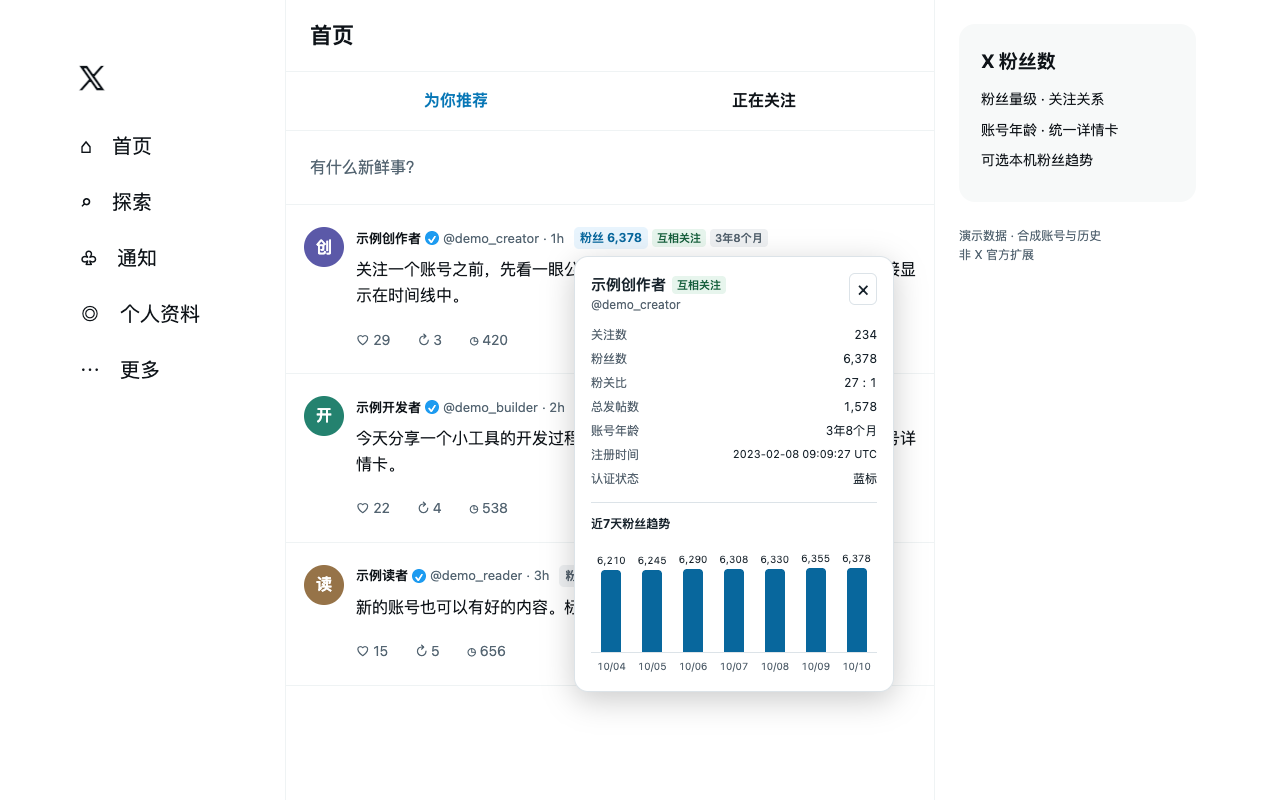
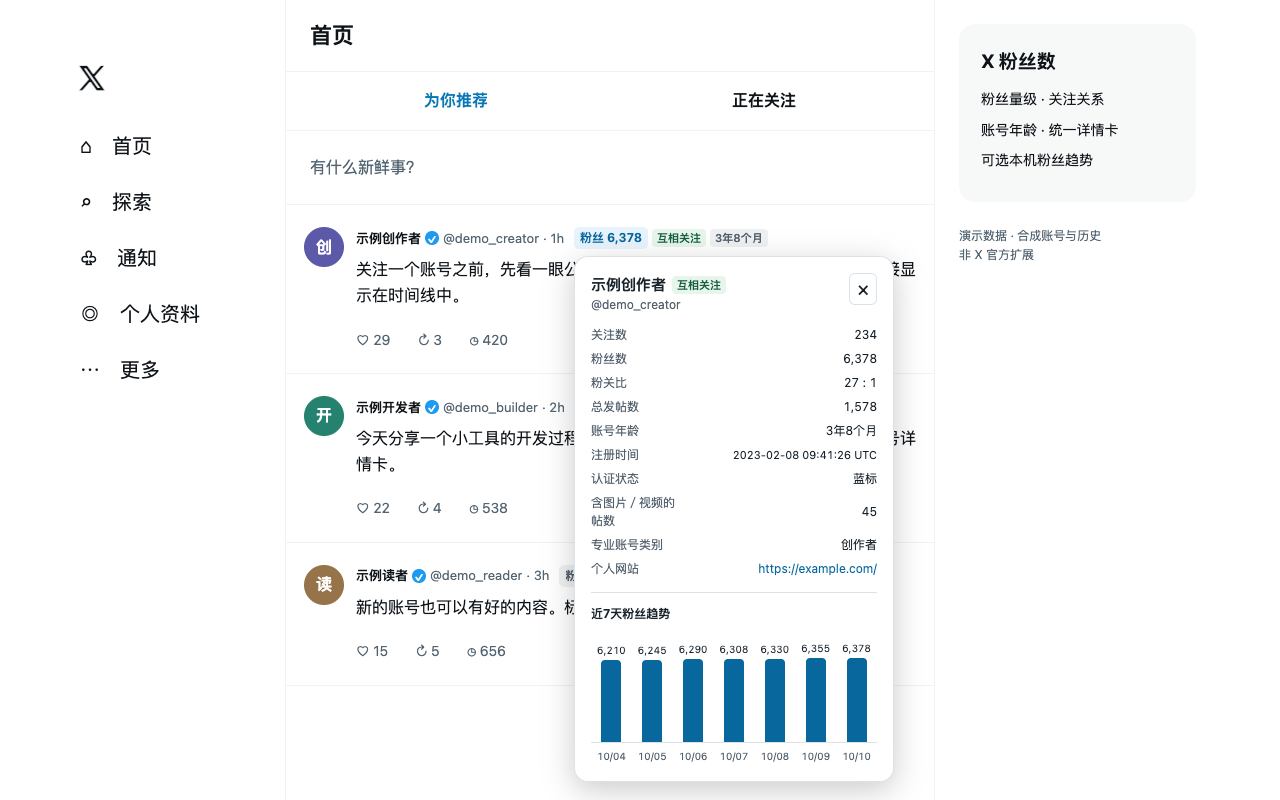
Clarify profile fields, enable defaults and unify extension package

Changed region(s): [[0.4375, 0.625, 0.6875, 1.0], [0.5625, 0.5625, 0.6875, 0.5938]]

diff --git a/extension/privacy.html b/extension/privacy.html
@@ -1,8 +1,8 @@
 <!doctype html>
 <html lang="zh-CN"><head><meta charset="utf-8"><meta name="viewport" content="width=device-width,initial-scale=1"><title>隐私政策 · X 粉丝数</title><link rel="stylesheet" href="popup.css"></head>
 <body class="privacy-page"><h1>X 粉丝数隐私政策</h1><p>更新日期：2026-10-10 · 发布者：vikyhuhu。本扩展与 X / Twitter 无官方关联。</p>
-<h2>用途与数据</h2><p>仅在 X / Twitter 的 HTTPS 页面显示账号信息与粉丝趋势。读取页面自身已加载的公开用户资料：用户 ID、昵称、账号名、粉丝数、关注数、总发帖数、媒体帖数、注册时间、认证、账号类别及个人网站；读取当前登录账号的关注关系，并从账号切换按钮读取账号名以清空关系缓存。以上详情只保留在页面内存，刷新后重建。</p>
-<h2>可选本机记录</h2><p>粉丝趋势记录默认关闭。你明确开启后，扩展在 chrome.storage.local 保存已加载账号的用户 ID、观察时间与粉丝数。记录保留30天，最多1,000个账号，存储预算8 MiB；超限时移除较早记录。开关和显示偏好持续保存在本机。升级时移除旧版保存的资料和帖子样本，保留尚未过期的粉丝快照，记录开关默认关闭。</p>
+<h2>用途与数据</h2><p>仅在 X / Twitter 的 HTTPS 页面显示账号信息与粉丝趋势。读取页面自身已加载的公开用户资料：用户 ID、昵称、账号名、粉丝数、关注数、总发帖数、含图片／视频的帖数、注册时间、认证、专业账号类别及个人网站；读取当前登录账号的关注关系，并从账号切换按钮读取账号名以清空关系缓存。以上详情只保留在页面内存，刷新后重建。</p>
+<h2>可选本机记录</h2><p>新安装默认开启粉丝趋势记录及全部详情显示项，可在工具栏随时关闭；升级保留已经保存的设置。记录开启时，扩展在 chrome.storage.local 保存已加载账号的用户 ID、观察时间与粉丝数。记录保留30天，最多1,000个账号，存储预算8 MiB；超限时移除较早记录。开关和显示偏好持续保存在本机。升级时移除旧版保存的资料和帖子样本，保留尚未过期的粉丝快照。</p>
 <h2>网络与分享</h2><p>扩展不向开发者或第三方上传、出售、共享数据；无分析、广告、遥测或远程执行代码。只解析允许的用户／时间线读取响应（GET 或 POST），不主动查询账号，不读取请求头、Cookie、令牌、密码、私信、请求正文或完整浏览 URL 历史；不提取或保存帖子正文。打开个人网站、GitHub 或隐私政策链接是你的主动操作，目标网站按其自身政策处理请求。X 本身的数据处理受 X 的政策约束。</p>
 <h2>你的控制</h2><p>工具栏设置可开启或关闭记录、选择详情字段，或确认清除全部趋势记录。关闭记录后停止新记录及趋势展示，但已有快照保留至到期或清除（保留期在处理本地记录时执行清理）；再次开启可恢复未过期的快照。卸载扩展会移除扩展本机存储。禁用扩展可停止运行。</p>
 <h2>有限使用与联系</h2><p>数据仅用于本政策所述的账号信息显示与本机粉丝趋势功能，遵守 Chrome Web Store 用户数据政策及 Limited Use 要求，不用于广告、转售、信用或贷款判断；开发者无法访问本机数据。数据不是账号真实性或质量的证明。</p><p>联系与支持：<a href="https://github.com/vikyhuhu/x-follower-count/issues" target="_blank" rel="noopener noreferrer">GitHub Issues</a>。请勿提交凭证或私人资料。<a href="https://github.com/vikyhuhu/x-follower-count/blob/main/PRIVACY.md" target="_blank" rel="noopener noreferrer">公开隐私政策</a>。</p></body></html>

diff --git a/extension/popup.html b/extension/popup.html
@@ -1,5 +1,5 @@
 <!doctype html>
 <html lang="zh-CN"><head><meta charset="utf-8"><meta name="viewport" content="width=device-width,initial-scale=1"><link rel="stylesheet" href="popup.css"><title>X 粉丝数</title></head>
 <body><h1>X 粉丝数</h1><p>查看 X 账号详情；不上传数据。</p>
-<fieldset disabled><legend>本机设置</legend><label><input type="checkbox" name="recording">开启本机粉丝趋势记录</label><p class="note">开启后保存已加载账号的用户 ID、观察时间及粉丝数，保留30天。默认关闭；关闭后停止记录及趋势展示，已有记录可手动清除。</p><p>详情卡可选内容</p><label><input type="checkbox" name="verification">认证状态</label><label><input type="checkbox" name="media">媒体帖数</label><label><input type="checkbox" name="category">账号自填类别</label><label><input type="checkbox" name="website">个人网站</label></fieldset>
+<fieldset disabled><legend>本机设置</legend><label><input type="checkbox" name="recording">开启本机粉丝趋势记录</label><p class="note">开启后保存已加载账号的用户 ID、观察时间及粉丝数，保留30天。新安装默认开启，可随时关闭；升级保留已有设置。关闭后停止记录及趋势展示，已有记录可手动清除。</p><p>详情卡可选内容</p><label><input type="checkbox" name="verification">认证状态</label><label><input type="checkbox" name="media">含图片／视频的帖数</label><label><input type="checkbox" name="category">专业账号类别</label><label><input type="checkbox" name="website">个人网站</label></fieldset>
 <p id="summary">正在读取本地记录…</p><button id="clear" type="button">清除全部趋势记录</button><p id="confirm" hidden>清除本机保存的全部趋势记录？<button id="confirm-clear" type="button">确认清除</button><button id="cancel" type="button">取消</button></p><p id="status" role="status"></p><p class="note">保留最近30天；最多1,000个账号，存储预算8 MiB；超限淘汰较早记录。不主动请求账号数据，不保存帖子正文或关注关系。<a href="privacy.html" target="_blank" rel="noopener">隐私政策</a></p><script src="popup.js"></script></body></html>

diff --git a/extension/card.js b/extension/card.js
@@ -112,8 +112,8 @@
     pair(list, "注册时间", age ? `${new Date(user.createdAt).toISOString().slice(0, 19).replace("T", " ")} UTC` : "—").className = "xfc-date";
     const options = result.settings ?? history.defaults;
     if (options.verification && user.verification) pair(list, "认证状态", { blue: "蓝标", business: "企业认证", government: "政府／组织认证", verified: "已认证", none: "未认证" }[user.verification]);
-    if (options.media && user.mediaCount !== undefined) pair(list, "媒体帖数", number(user.mediaCount));
-    if (options.category && user.category) pair(list, "账号自填类别", user.category);
+    if (options.media && user.mediaCount !== undefined) pair(list, "含图片／视频的帖数", number(user.mediaCount));
+    if (options.category && user.category) pair(list, "专业账号类别", user.category);
     if (options.website && user.website) {
       const value = pair(list, "个人网站", "");
       const link = element("a", "", user.website); link.href = user.website; link.target = "_blank"; link.rel = "noopener noreferrer"; value.append(link);

diff --git a/extension/content.css b/extension/content.css
@@ -125,7 +125,7 @@
 .xfc-title-row .xfc-relation { flex: 0 0 auto; }
 .xfc-card-header { margin-bottom: 12px; }
 .xfc-facts { display: grid; grid-template-columns: 84px minmax(0,1fr); gap: 6px 8px; margin: 0; }
-.xfc-facts dt { color: var(--xfc-muted); } .xfc-facts dd { margin: 0; text-align: right; overflow-wrap: anywhere; font-variant-numeric: tabular-nums; } .xfc-date { font-size: 11px; }
+.xfc-facts dt { color: var(--xfc-muted); } .xfc-facts dd { align-self: center; margin: 0; text-align: right; overflow-wrap: anywhere; font-variant-numeric: tabular-nums; } .xfc-date { font-size: 11px; }
 .xfc-chart-section { margin-top: 14px; padding-top: 12px; border-top: 1px solid var(--xfc-border); }
 .xfc-chart-section h3 { margin: 0 0 8px; font-size: 12px; }
 .xfc-bars { display: grid; grid-template-columns: repeat(7, minmax(0,1fr)); width: 100%; min-height: 134px; }

diff --git a/extension/history.js b/extension/history.js
@@ -1,7 +1,7 @@
 (() => {
   "use strict";
   const DAY = 86400000, KEEP_DAYS = 30, MAX_USERS = 1000, MAX_BYTES = 8 * 1024 * 1024;
-  const defaults = Object.freeze({ recording: false, verification: true, media: false, category: false, website: false });
+  const defaults = Object.freeze({ recording: true, verification: true, media: true, category: true, website: true });
   const validId = value => typeof value === "string" && /^\d{1,40}$/.test(value);
   const validCount = value => Number.isSafeInteger(value) && value >= 0;
   function dayKey(time) { return new Date(time + 8 * 3600000).toISOString().slice(0, 10); }

diff --git a/tests/privacy_browser_test.py b/tests/privacy_browser_test.py
@@ -1,4 +1,4 @@
-"""Fresh install, explicit consent, storage minimization and real extension reload."""
+"""Fresh defaults, saved choices, storage minimization and real extension reload."""
 import json
 import os
 import tempfile
@@ -22,16 +22,16 @@ with sync_playwright() as p, tempfile.TemporaryDirectory(prefix="xfc-privacy-") 
     badge=page.locator("#tweet > [data-testid='User-Name'] .xfc-badge")
     expect(badge).to_have_text("粉丝 100")
     worker=context.service_workers[0] if context.service_workers else context.wait_for_event("serviceworker")
-    assert not worker.evaluate("()=>chrome.storage.local.get('xfc-history-v1')")
     extension_id=worker.url.split('/')[2]
     popup=context.new_page();popup.goto(f"chrome-extension://{extension_id}/popup.html")
-    expect(popup.get_by_label("开启本机粉丝趋势记录",exact=True)).not_to_be_checked()
-    popup.get_by_label("开启本机粉丝趋势记录",exact=True).check()
-    expect(popup.get_by_role("status")).to_have_text("已保存")
-    page.get_by_role("button",name="载入时间线").click()
+    for label in ["开启本机粉丝趋势记录","认证状态","含图片／视频的帖数","专业账号类别","个人网站"]:
+        expect(popup.get_by_label(label,exact=True)).to_be_checked()
+    expect(popup.locator("fieldset .note")).to_contain_text("新安装默认开启")
     badge.hover();expect(page.locator('.xfc-bar-value')).to_have_text('100')
     saved=worker.evaluate("()=>chrome.storage.local.get('xfc-history-v1')")['xfc-history-v1']
     assert sorted(saved['users']['1'])==['days','lastSeen','userId']
+    popup.get_by_label("个人网站",exact=True).uncheck()
+    expect(popup.get_by_role("status")).to_have_text("已保存")
     popup.get_by_label("开启本机粉丝趋势记录",exact=True).uncheck()
     expect(popup.get_by_role("status")).to_have_text("已保存")
     payload['relationship_counts']['followers']=101
@@ -44,6 +44,7 @@ with sync_playwright() as p, tempfile.TemporaryDirectory(prefix="xfc-privacy-") 
     expect(popup.locator('#summary')).to_contain_text('已记录 0 个账号')
     privacy=context.new_page();privacy.goto(f"chrome-extension://{extension_id}/privacy.html")
     expect(privacy.get_by_role('heading',name='X 粉丝数隐私政策',exact=True)).to_be_visible()
+    expect(privacy.locator("body")).to_contain_text("新安装默认开启")
     # Reload from Chrome's real extension manager while the old X page stays alive.
     manager=context.new_page();manager.goto('chrome://extensions')
     toggle=manager.locator('#devMode');toggle.click()
@@ -56,6 +57,10 @@ with sync_playwright() as p, tempfile.TemporaryDirectory(prefix="xfc-privacy-") 
     assert not errors,errors
     page.reload();page.get_by_role('button',name='载入时间线').click()
     expect(page.locator("#tweet .xfc-badge")).to_have_text('粉丝 101')
+    popup=context.new_page();popup.goto(f"chrome-extension://{extension_id}/popup.html")
+    expect(popup.get_by_label("开启本机粉丝趋势记录",exact=True)).not_to_be_checked()
+    expect(popup.get_by_label("个人网站",exact=True)).not_to_be_checked()
+    page.locator("#tweet .xfc-badge").hover();expect(page.locator('.xfc-bar')).to_have_count(0)
     assert not errors,errors
-    print(json.dumps({'result':'passed','checks':['fresh install does not persist account data','explicit consent through popup','minimal storage schema','disable and clear','offline privacy','real extension reload safely stops old listeners','new page resumes'],'page_errors':errors},ensure_ascii=False))
+    print(json.dumps({'result':'passed','checks':['fresh install defaults all five options on and records first observation','popup discloses recording','disabled choices persist through real extension reload','minimal storage schema','disable and clear','offline privacy','real extension reload safely stops old listeners','new page resumes'],'page_errors':errors},ensure_ascii=False))
     context.close()

diff --git a/scripts/package.py b/scripts/package.py
@@ -1,4 +1,4 @@
-"""Build local-install and Chrome Web Store archives from an explicit allowlist."""
+"""Build one archive for local installation and Chrome Web Store upload from an explicit allowlist."""
 from pathlib import Path
 from zipfile import ZipFile, ZIP_DEFLATED, ZipInfo
 import json
@@ -13,18 +13,13 @@ def put(archive, name, content):
     info.compress_type = ZIP_DEFLATED
     info.external_attr = 0o644 << 16
     archive.writestr(info, content)
-for store in (False, True):
-    output = ROOT / "dist" / f"x-follower-count-{version}{'-webstore' if store else ''}.zip"
-    prefix = "" if store else "x-follower-count/"
-    with ZipFile(output, "w") as archive:
-        for name in FILES:
-            put(archive, prefix + name, (ROOT / "extension" / name).read_bytes())
-        put(archive, prefix + "LICENSE", (ROOT / "LICENSE").read_bytes())
-        if not store:
-            guide = (ROOT / "README.md").read_text().replace('src="extension/icons/', 'src="icons/')
-            put(archive, prefix + "安装说明.md", guide.encode())
-            put(archive, prefix + "PRIVACY.md", (ROOT / "PRIVACY.md").read_bytes())
-    with ZipFile(output) as archive:
-        assert archive.testzip() is None
-        assert prefix + "manifest.json" in archive.namelist()
-    print(output)
+output = ROOT / "dist" / f"x-follower-count-{version}.zip"
+with ZipFile(output, "w") as archive:
+    for name in FILES:
+        put(archive, name, (ROOT / "extension" / name).read_bytes())
+    put(archive, "LICENSE", (ROOT / "LICENSE").read_bytes())
+with ZipFile(output) as archive:
+    assert archive.testzip() is None
+    assert set(archive.namelist()) == {*FILES, "LICENSE"}
+    assert "manifest.json" in archive.namelist()
+print(output)

diff --git a/tests/card_browser_test.py b/tests/card_browser_test.py
@@ -75,7 +75,7 @@ with sync_playwright() as p, tempfile.TemporaryDirectory(prefix="xfc-card-") as 
     expect(card.locator(".xfc-facts").get_by_text("174,000", exact=True)).to_be_visible()
     expect(card.get_by_text("544 : 1", exact=True)).to_be_visible()
     expect(card.get_by_text("1,578", exact=True)).to_be_visible()
-    expect(card.get_by_text("账号自填类别", exact=True)).to_be_visible()
+    expect(card.get_by_text("专业账号类别", exact=True)).to_be_visible()
     expect(card.locator(".xfc-chart-section")).to_have_count(1)
     expect(card.get_by_role("heading", name="近7天已观察发帖")).to_have_count(0)
     expect(card.get_by_role("button", name="清除此账号记录")).to_have_count(0)
@@ -162,8 +162,8 @@ with sync_playwright() as p, tempfile.TemporaryDirectory(prefix="xfc-card-") as 
     popup.on("requestfailed", lambda req: failures.append(req.url))
     popup.goto(f"chrome-extension://{extension_id}/popup.html")
     expect(popup.locator("#summary")).to_contain_text("已记录")
-    expect(popup.get_by_label("媒体帖数", exact=True)).to_be_checked()
-    popup.get_by_label("媒体帖数", exact=True).uncheck()
+    expect(popup.get_by_label("含图片／视频的帖数", exact=True)).to_be_checked()
+    popup.get_by_label("含图片／视频的帖数", exact=True).uncheck()
     expect(popup.get_by_role("status")).to_have_text("已保存")
     popup.get_by_role("button", name="清除全部趋势记录", exact=True).click()
     popup.get_by_role("button", name="确认清除", exact=True).click()

diff --git a/scripts/store_assets.py b/scripts/store_assets.py
@@ -19,7 +19,7 @@ day=lambda date:(date+timedelta(hours=8)).strftime('%Y-%m-%d')
 counts=[6378,17000,423]
 handles=['demo_creator','demo_builder','demo_reader']
 names=['示例创作者','示例开发者','示例读者']
-users=[{'rest_id':str(i+1),'core':{'screen_name':handle,'name':names[i],'created_at':(now-timedelta(days=[1340,365,40][i])).isoformat()},'relationship_counts':{'followers':counts[i],'following':[234,180,320][i]},'relationship_perspectives':{'following':i==0,'followed_by':i<2},'tweet_counts':{'tweets':[1578,256,35][i]},'is_blue_verified':True} for i,handle in enumerate(handles)]
+users=[{'rest_id':str(i+1),'core':{'screen_name':handle,'name':names[i],'created_at':(now-timedelta(days=[1340,365,40][i])).isoformat()},'relationship_counts':{'followers':counts[i],'following':[234,180,320][i]},'relationship_perspectives':{'following':i==0,'followed_by':i<2},'tweet_counts':{'tweets':[1578,256,35][i],'media_tweets':[45,20,3][i]},'is_blue_verified':True,'professional':{'category':[{'name':'创作者'}]},'website':{'url':'https://example.com'}} for i,handle in enumerate(handles)]
 svg=base64.b64encode((ROOT/'assets/icon.svg').read_bytes()).decode()
 articles=''
 texts=['关注一个账号之前，先看一眼公开资料。粉丝数、关注关系和账号年龄，直接显示在时间线中。','今天分享一个小工具的开发过程。鼠标停在任意标签上，就能查看同一张账号详情卡。','新的账号也可以有好的内容。标签描述数据，内容是否值得关注，由你判断。']

diff --git a/docs/chrome-web-store.md b/docs/chrome-web-store.md
@@ -1,10 +1,10 @@
-# Chrome Web Store 提交准备 · 1.2.1
+# Chrome Web Store 提交准备 · 1.2.2
 
 准备日期：2026-10-10。此文件提供可填写的材料，尚未提交商店审核，不保证审核结果。提交前需实际登录 X 确认当前页面兼容性，并填写发布者真实账户资料。
 
 ## 安装包与图片
 
-运行 `pnpm package`，上传 `dist/x-follower-count-1.2.1-webstore.zip`；包中 `manifest.json` 位于根目录。普通安装 ZIP 用于本地安装，勿混用。
+运行 `pnpm package`，仅生成 `dist/x-follower-count-1.2.2.zip`，包中 `manifest.json` 位于根目录。商店后台直接上传此 ZIP；本地使用同一个 ZIP，解压后加载包含 `manifest.json` 的文件夹。
 
 | 用途 | 文件 | 尺寸 |
 | --- | --- | --- |
@@ -29,7 +29,7 @@
 >
 > 在账号和发布时间后显示粉丝数量、关注关系及账号年龄。粉丝数按量级分色；注册未满90天显示「新号」。悬停或点击任意标签，查看精确粉丝数、关注数、取整粉关比、总发帖数及注册时间。总发帖数不等于全历史原创数，标签不评价账号质量。
 >
-> 近七天粉丝柱状图为可选功能：在工具栏设置明确开启后，仅在本机保存已加载账号的用户 ID、观察时间与粉丝数。记录保留30天、最多1,000个账号；不会回溯未观察到的历史。可以关闭记录及趋势展示，或清除全部快照。账号详情和关注关系仅在当前页面内存中处理。
+> 新安装默认开启全部详情显示项和近七天粉丝柱状图：仅在本机保存已加载账号的用户 ID、观察时间与粉丝数。记录保留30天、最多1,000个账号；不会回溯未观察到的历史。可以在工具栏分别关闭详情项、关闭记录及趋势展示，或清除全部快照。升级保留已经保存的设置。认证状态、含图片／视频的帖数、专业账号类别及个人网站仅在页面提供数据时显示。账号详情和关注关系仅在当前页面内存中处理。
 >
 > 扩展读取 X 页面自身允许的用户／时间线读取响应（GET 或 POST），不额外查询账号，不提取或保存帖子正文，不解析私信及认证接口，不读取请求头、Cookie、密码或令牌，不上传数据，无广告或分析。仅在 X / Twitter 的 HTTPS 页面运行。
 >
@@ -45,7 +45,7 @@
 
 **单一用途**：帮助用户在 X 页面查看已加载的公开账号信息及可选的本机粉丝数量观察趋势。
 
-**storage 理由**：保存显示偏好；用户明确开启记录后保存用户 ID、观察时间及粉丝数，供近七天本机柱状图使用。没有云同步。
+**storage 理由**：保存显示偏好；新安装默认开启记录，可随时关闭；记录开启时保存用户 ID、观察时间及粉丝数，供近七天本机柱状图使用。没有云同步。
 
 **站点访问理由**：静态 content_scripts 仅匹配 HTTPS X / Twitter 四个域名，在页面开始加载时读取已发生的允许的读取响应（GET 或 POST）并插入账号标签。没有 `<all_urls>`、`tabs`、`cookies`、`webRequest`、`unlimitedStorage` 或额外 host_permissions。
 
@@ -57,7 +57,7 @@
 | --- | --- |
 | 个人身份信息 | 公开昵称、账号名、用户 ID；账号切换按钮的当前账号名只用于页面缓存失效 |
 | 网站内容 | 已加载的公开账号字段及当前账号对应的关注关系，页面内存处理 |
-| 网络浏览记录／活动 | 仅 X 页面加载的账号观察历史；明确开启后本机保存 ID、观察时间与粉丝数，不保存完整 URL 历史或其他网站活动 |
+| 网络浏览记录／活动 | 仅 X 页面加载的账号观察历史；记录开启时本机保存 ID、观察时间与粉丝数，不保存完整 URL 历史或其他网站活动 |
 
 不处理健康、金融／支付、身份验证凭证、私信或按键／鼠标行为追踪。产品为浮窗所需的正常指针、键盘事件不是行为分析。实际后台表单名称可能变化，按上述范围一致填写。
 
@@ -67,11 +67,11 @@
 
 1. 安装后登录 X，打开首页或用户列表并刷新。扩展没有单独登录流程，不提供测试账号或凭证。
 2. 检查账号名与时间后的标签，任意标签打开相同详情卡；姓名附近为关注关系标签，粉关比取整。X 原生用户名悬浮和插件标签悬浮各自独立。
-3. 新安装时趋势记录默认关闭，基础标签和详情仍可用。在工具栏开启本机记录后刷新 X，今日柱子直接显示观察到的完整粉丝数。
+3. 新安装时全部设置默认开启，今日柱子直接显示观察到的完整粉丝数；缺失类别等字段不显示。升级已有设置时保留明确关闭的选项。
 4. 关闭记录后停止新记录及趋势展示；清除全部记录有确认步骤，显示偏好保留。工具栏可访问离线隐私政策。
 5. 商店审核时可能只有一天记录，真实七天趋势需逐日观察；截图中的七天历史为合成数据。
 
-开发回归：27项 Node 测试通过；三套浏览器测试通过，商店 ZIP 解压后的文件也已实际加载验证，控制台无错误。1.2.1已在真实登录 X 首页确认 POST 时间线的标签恢复及当天粉丝柱状图，其他页面本次未重新实测；新版本上下文失效保护已在临时 Chrome 中通过「页面保持打开 → 重新加载扩展 → 刷新页面」流程验证。
+开发回归：28项 Node 测试通过；三套浏览器测试通过，商店 ZIP 解压后的文件也已实际加载验证，控制台无错误。1.2.1已在真实登录 X 首页确认 POST 时间线的标签恢复及当天粉丝柱状图，其他页面本次未重新实测；新版本上下文失效保护已在临时 Chrome 中通过「页面保持打开 → 重新加载扩展 → 刷新页面」流程验证。
 
 ## 仍需发布者完成
 
@@ -79,4 +79,4 @@
 
 ## 任务级公开内容 Review
 
-2026-10-10：核对 README、公开／内置隐私政策、商店文案与本版本的权限、响应过滤、默认关闭的记录开关、持久字段、清除行为及保留限制一致；无虚构用户评价、质量评分、涨粉承诺或审核通过声明。公开图像只用合成资料，无真实登录页面、个人配置或凭证。仅对上述材料作任务级 Review，不能替代 Chrome Web Store 审核。
+2026-10-10：核对 README、公开／内置隐私政策、商店文案与本版本的权限、响应过滤、新安装默认开启且升级保留设置的记录开关、持久字段、清除行为及保留限制一致；无虚构用户评价、质量评分、涨粉承诺或审核通过声明。公开图像只用合成资料，无真实登录页面、个人配置或凭证。仅对上述材料作任务级 Review，不能替代 Chrome Web Store 审核。

diff --git a/PRIVACY.md b/PRIVACY.md
@@ -4,11 +4,11 @@
 
 ## 用途和页面内数据
 
-扩展仅在 X / Twitter 的 HTTPS 页面辅助显示账号信息和本机粉丝趋势。它读取页面自身已加载的、允许的用户及时间线读取响应（GET 或 POST）中的公开用户资料：用户 ID、昵称、账号名、粉丝数、关注数、总发帖数、媒体帖数、注册时间、认证、账号自填类别及个人网站。它也读取当前登录账号对应的关注关系，并从账号切换按钮读取当前账号名，用于清空关系缓存。这些资料仅保存在当前页面内存，刷新后重建，不写入持久资料库。
+扩展仅在 X / Twitter 的 HTTPS 页面辅助显示账号信息和本机粉丝趋势。它读取页面自身已加载的、允许的用户及时间线读取响应（GET 或 POST）中的公开用户资料：用户 ID、昵称、账号名、粉丝数、关注数、总发帖数、含图片／视频的帖数、注册时间、认证、专业账号类别及个人网站。它也读取当前登录账号对应的关注关系，并从账号切换按钮读取当前账号名，用于清空关系缓存。这些资料仅保存在当前页面内存，刷新后重建，不写入持久资料库。
 
 ## 可选本机记录
 
-粉丝趋势记录默认关闭，需在工具栏设置中明确开启。开启后，仅将已加载账号的用户 ID、观察时间及粉丝数保存到 `chrome.storage.local`，用于近七天柱状图。记录保留30天，最多1,000个账号，存储预算8 MiB；超限时移除较早记录。开关和显示偏好持续保存在本机。升级时移除旧版保存的公开资料和帖子样本，保留未过期的粉丝快照；旧版未设置的记录开关默认为关闭。
+新安装默认开启粉丝趋势记录及全部详情显示项，可在工具栏随时关闭；升级保留已经保存的设置，不覆盖明确关闭的选择。记录开启时，仅将已加载账号的用户 ID、观察时间及粉丝数保存到 `chrome.storage.local`，用于近七天柱状图。记录保留30天，最多1,000个账号，存储预算8 MiB；超限时移除较早记录。开关和显示偏好持续保存在本机。升级时移除旧版保存的公开资料和帖子样本，保留未过期的粉丝快照。未保存过的选项采用新版默认值。
 
 这是本机观察历史，不是 X 提供的完整历史，也不是你访问过的完整 URL 列表。扩展无法回溯安装前或没有加载该账号数据时的粉丝数量。
 
@@ -26,4 +26,4 @@
 
 ## 联系与政策变更
 
-支持和隐私问题请通过 [GitHub Issues](https://github.com/vikyhuhu/x-follower-count/issues) 联系发布者。请勿公开提交私人资料、请求凭证、Cookie 或完整 HAR。若未来数据处理发生变化，将先更新本政策及产品内说明；新增的可选持久记录需明确开启。
+支持和隐私问题请通过 [GitHub Issues](https://github.com/vikyhuhu/x-follower-count/issues) 联系发布者。请勿公开提交私人资料、请求凭证、Cookie 或完整 HAR。若未来数据处理发生变化，将先更新本政策及产品内说明，并在启用新的数据用途前取得所需同意。
